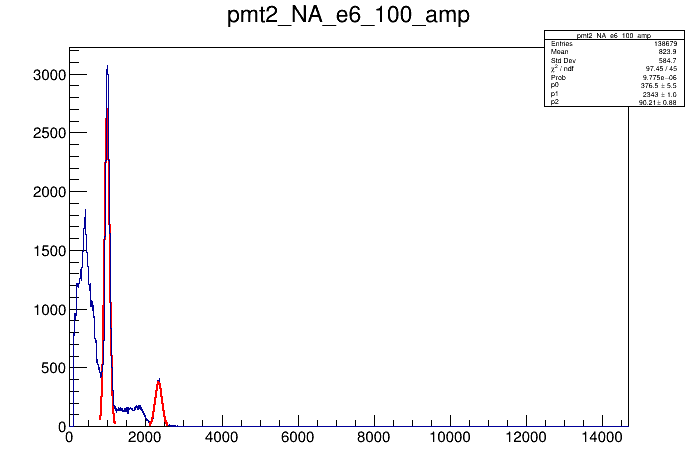
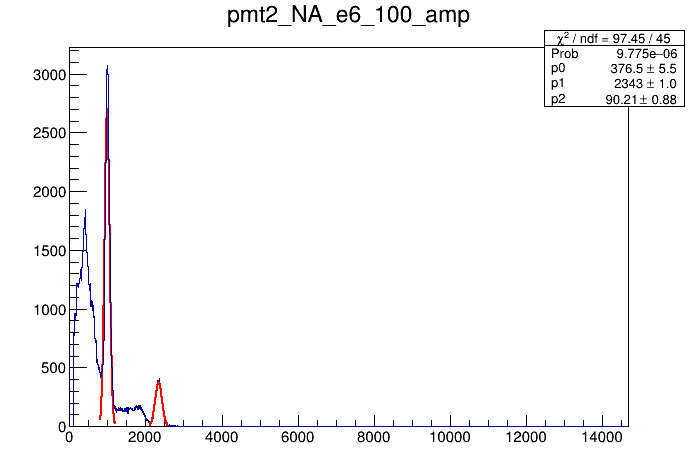
residual plot in calibration

Changed region(s): [[0.7822, 0.0591, 0.9928, 0.2363]]

diff --git a/calibration.cpp b/calibration.cpp
@@ -3,6 +3,7 @@
 
 
 #include <TFile.h>
+#include <TPad.h>
 #include <TGraphErrors.h>
 
 using namespace std;
@@ -54,24 +55,56 @@ vector<float> fit_gaus (TFile *f ,string name_pmt, string type, vector<float> ra
 
 auto fit_lin(string name_pmt, string type, vector<float> gaus_params){
     float x[4]={0.18, 0.66, 1.17, 1.33};
-    float y[4]={gaus_params[4], gaus_params[6], gaus_params[0], gaus_params[2]};
-    float y_err[4] = {gaus_params[5], gaus_params[7], gaus_params[1], gaus_params[3]};
+    float y[sizeof(x)/sizeof(x[0])]={gaus_params[4], gaus_params[6], gaus_params[0], gaus_params[2]};
+    float y_err[sizeof(x)/sizeof(x[0])] = {gaus_params[5], gaus_params[7], gaus_params[1], gaus_params[3]};
 
     cout << endl;
     cout << "__________________________ Linear fit: " << name_pmt << type << " __________________________"<<endl; 
     cout << endl;
+    gStyle->SetOptStat(0);
 
     TCanvas *c_fit_lin = new TCanvas(&(name_pmt + type + "_calibration")[0], &( name_pmt + type + "_calibration")[0]);
+    TPad *pad1 = new TPad("pad1","pad1",0,0.33,1,1);
+    TPad *pad2 = new TPad("pad2","pad2",0,0,1,0.33);
+    pad1->SetBottomMargin(0.00001);
+    pad1->SetBorderMode(0);
+    pad2->SetTopMargin(0.00001);
+    pad2->SetBottomMargin(0.1);
+    pad2->SetBorderMode(0);
+    pad1->Draw();
+    pad2->Draw();
+    pad1->cd();
+
     TGraphErrors* gr = new TGraphErrors(4,x,y,nullptr,y_err);
     gStyle->SetStatY(0.9);
     gStyle->SetStatX(0.5);
     gr->SetMarkerStyle(1);
     gr->Draw("APE");
-    TF1 *   linear  = new TF1("linear","[0]+[1]*x", 0, 1.4);
+    TF1 *   linear  = new TF1("linear","[0]+[1]*x", -0.1, 1.4);
     linear->SetParNames ("Off-set","Calibration factor");
     gr->Fit("linear");
     linear->Draw("SAME");
     gStyle->SetOptFit(111);
+
+
+
+
+    pad2->cd();
+    float diff[sizeof(x)/sizeof(x[0])];
+    float diff_err[sizeof(x)/sizeof(x[0])];
+    for (Int_t i=0;i<sizeof(x)/sizeof(x[0]);i++) {
+        diff[i] =y[i]-linear->Eval(x[i]);
+        diff_err[i]=diff[i]/y_err[i];
+    }  
+
+    TGraphErrors* gr2 = new TGraphErrors(4,x,diff_err,nullptr,y_err);
+    gStyle->SetStatY(0.9);
+    gStyle->SetStatX(0.5);
+    gr2->SetMarkerStyle(1);
+    TF1 *   zero  = new TF1("zero","0*x", -0.1, 1.4);
+    gr2->Draw("APE");
+    zero->Draw("SAME");
+    c_fit_lin->cd();
     c_fit_lin->SaveAs(&("calibration/" + name_pmt + type + "_calibration_low.png")[0]);
     
     vector<double> off_set{linear->GetParameter(0),linear->GetParError(0)};
